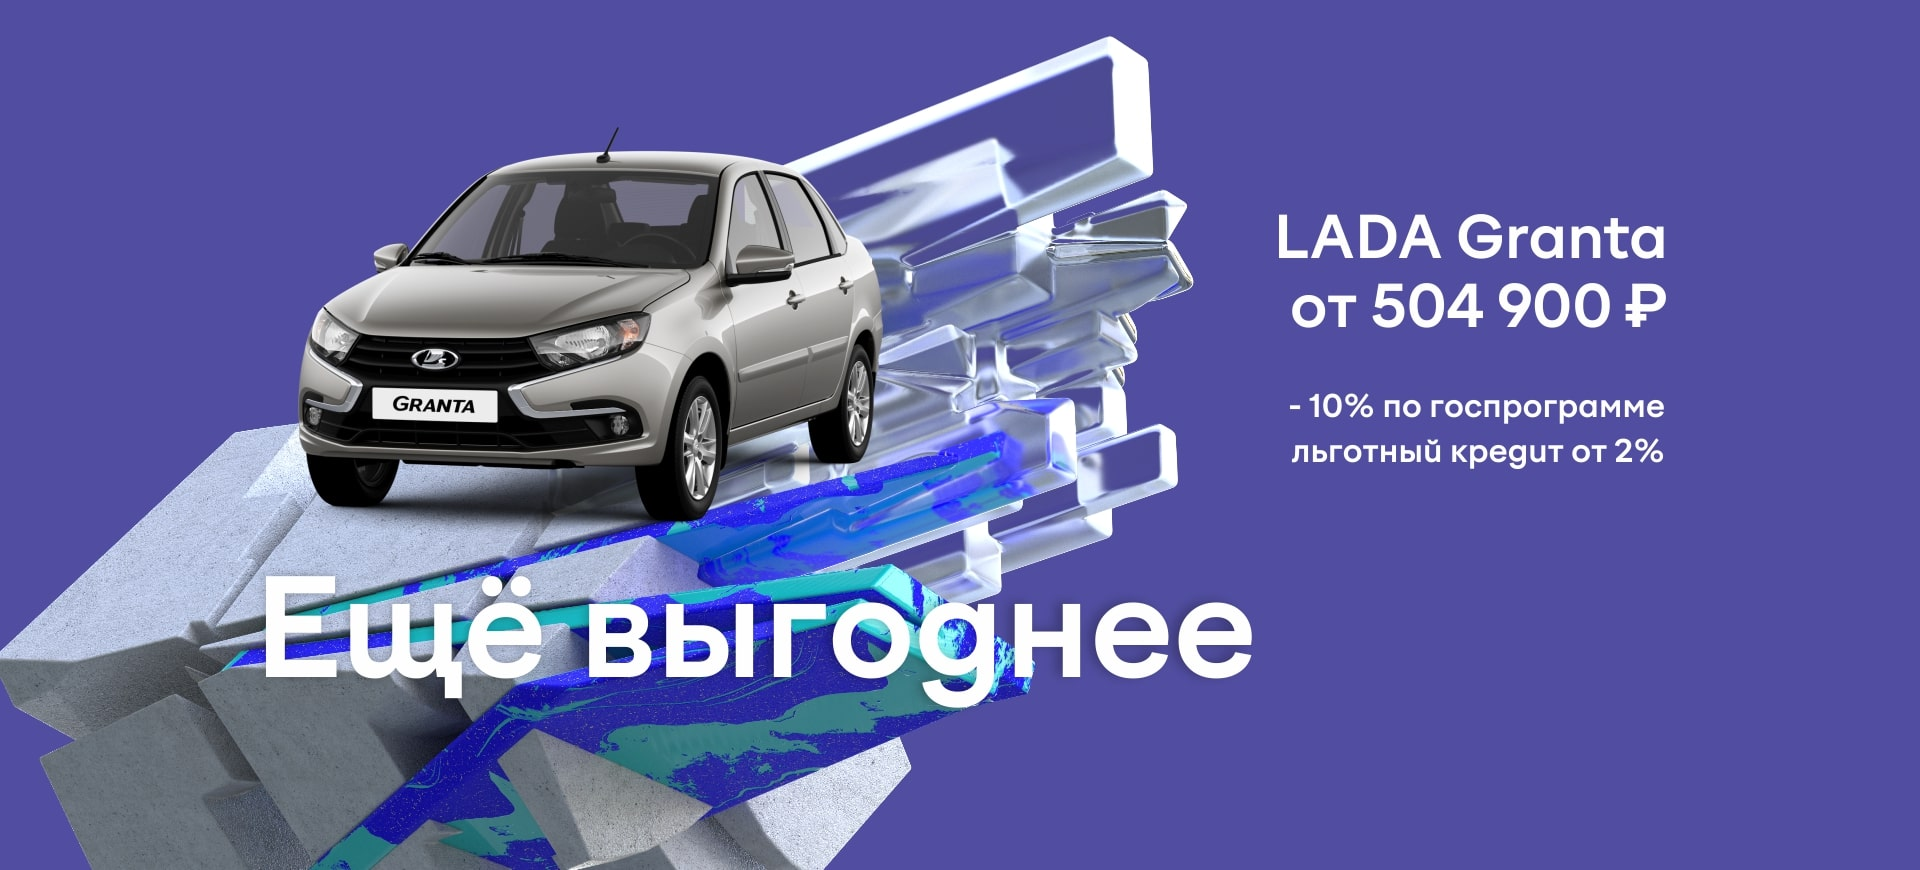
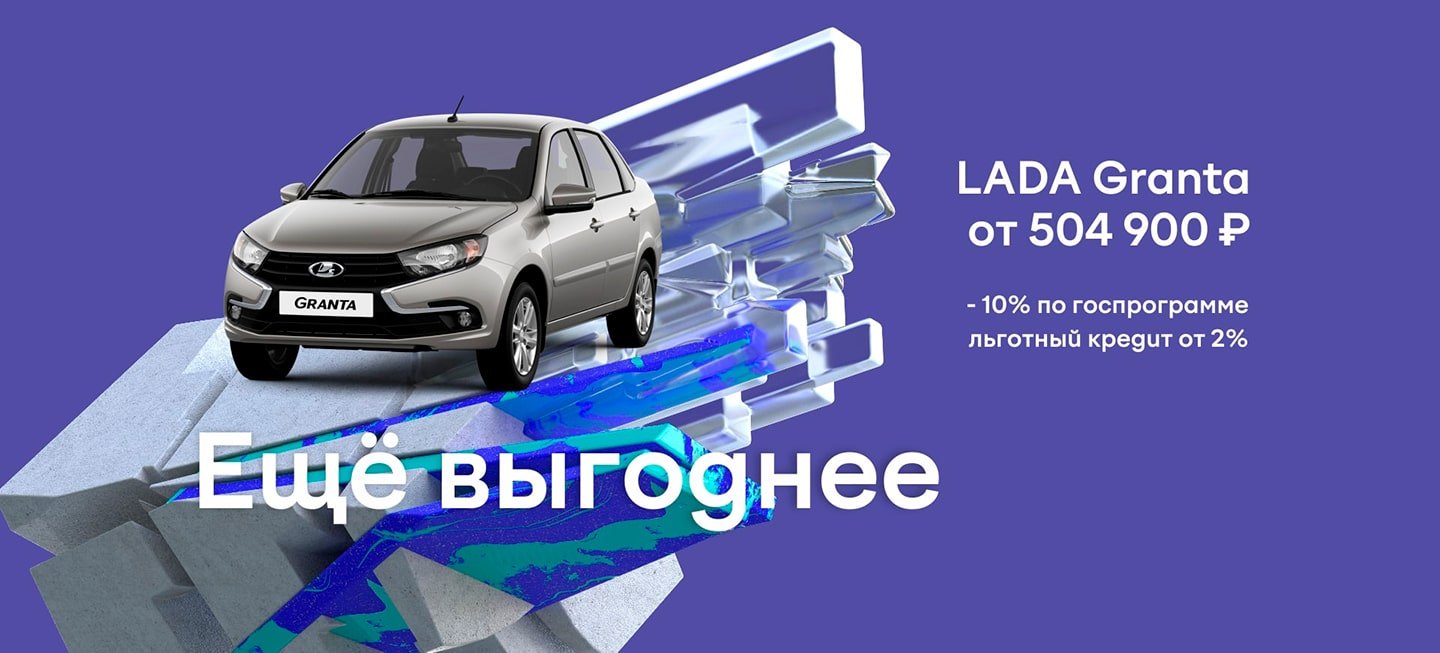
Оптимизировал каринки для баннера и убрал мерцание
#banner #main

diff --git a/components/banners/MainBanner.vue b/components/banners/MainBanner.vue
@@ -2,7 +2,6 @@
   <section class="main-screen">
     <div class="main-screen__swiper-wrap">
       <swiper id="swiper" class="swiper" ref="mySwiper" :options="swiperOption">
-
         <div class="swiper-button-prev" slot="button-prev"></div>
         <div class="swiper-button-next" slot="button-next"></div>
         <div class="swiper-pagination" slot="pagination"></div>
@@ -64,6 +63,7 @@ export default {
           delay: 7000,
           disableOnInteraction: false,
         },
+        cssMode: true,
         autoHeight: false,
         slidesPerView: 1,
         spaceBetween: 0,
@@ -104,12 +104,12 @@ export default {
     max-width: 1440px;
 
     .swiper-button-next {
-      right: 30px;
+      right: 45px;
       padding-left: 5px;
     }
 
     .swiper-button-prev {
-      left: 30px;
+      left: 45px;
       padding-right: 5px;
     }
 
@@ -164,13 +164,15 @@ export default {
 
 
     .swiper-slide {
+/*      -webkit-transform: translateZ(0);
+      -webkit-backface-visibility: hidden;*/
       display: flex;
       align-content: center;
       justify-content: center;
 
       picture {
         width: 100%;
-        max-width: 1400px;
+        max-width: 1440px;
         //display: flex;
       }
 
